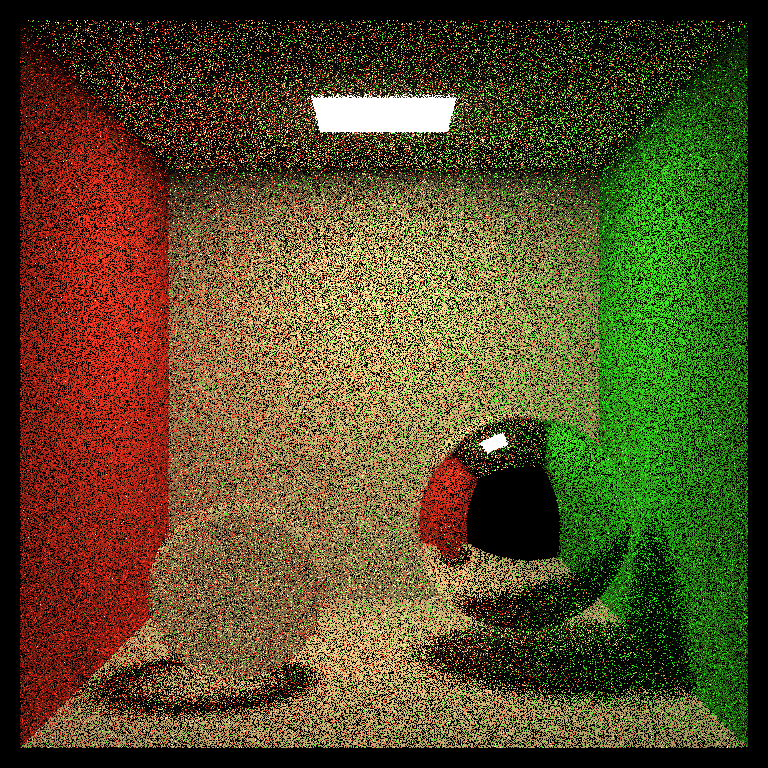
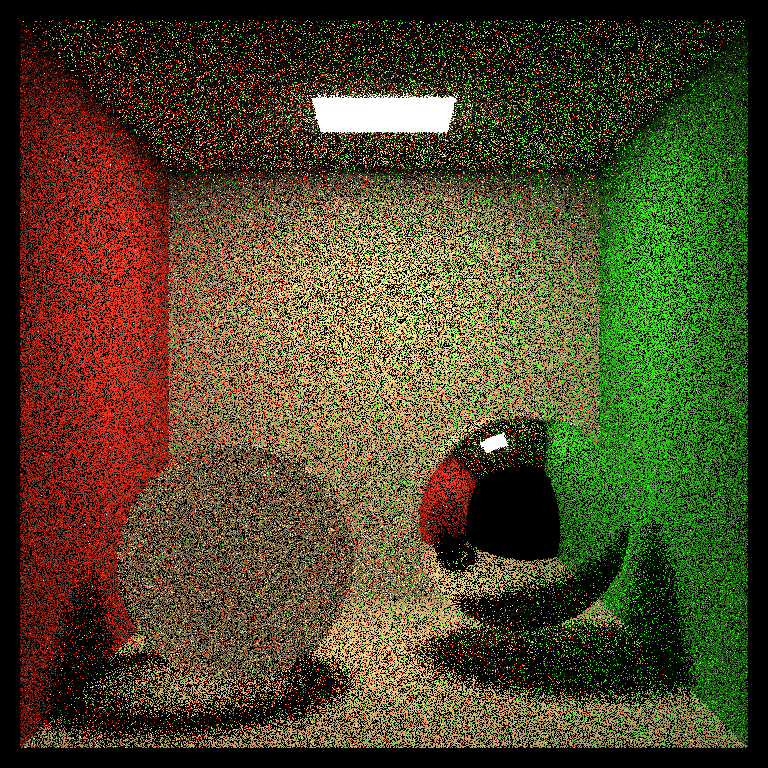
Dielectric partly work with  implementation

diff --git a/src/material/Dielectric.cpp b/src/material/Dielectric.cpp
@@ -45,19 +45,20 @@ bool Dielectric::scatter(
     srec.is_specular = true;
     srec.pdf = 0;
     srec.attenuation = albedo;
-    bool into = dot(r_in.direction(), rec.normal) > 0;
-    float ni_over_nt = into ? ref_idx : 1.0 / ref_idx;
+    bool into = dot(r_in.direction(), rec.normal) < 0;
+    float ni_over_nt = into ? 1.0 / ref_idx : ref_idx;
+    auto outward_normal = into ? rec.normal : -rec.normal;
     
-    auto normalize_direction = normalize(r_in.direction());
-    float cosine = fmin(dot(-normalize_direction, rec.normal), 1.0);
+    float cosine = dot(-r_in.direction(), outward_normal);
     float sine = sqrt(1.0 - cosine*cosine);
 
     bool cannot_refract = ni_over_nt * sine > 1.0;
+
     float reflect_prob = schlick(cosine, ni_over_nt);
     if(cannot_refract || reflect_prob > random_double())
-        srec.specular_ray = Ray(rec.p, reflect(normalize_direction, rec.normal));
+        srec.specular_ray = Ray(rec.p, reflect(r_in.direction(), rec.normal));
     else
-        srec.specular_ray = Ray(rec.p, refract(normalize_direction, rec.normal, ni_over_nt));
+        srec.specular_ray = Ray(rec.p, refract(r_in.direction(), outward_normal, ni_over_nt));
     return true;
 }
 

diff --git a/src/core/vec3.h b/src/core/vec3.h
@@ -204,12 +204,13 @@ inline bool refract(const vec3& v, const vec3& n, double ni_over_nt, vec3& refra
         return false;
 }
 
+// ref: https://knzw.tech/raytracing/?page_id=478
 inline vec3 refract(const vec3& v, const vec3& n, double ni_over_nt) {
     auto nv = normalize(v);
-    auto cosine = fmin(dot(-nv, n), 1.0);
-    vec3 r_out_perp = ni_over_nt * (nv + cosine * n);
-    vec3 r_out_parallel = -sqrt(fabs(1.0 - r_out_perp.length_squared())) * n;
-    return r_out_perp + r_out_parallel;
+    auto cosine = dot(-nv, n);
+    auto nt_over_ni = 1.0 / ni_over_nt;
+    auto cos2t = nt_over_ni*nt_over_ni - (1.0-cosine*cosine);
+    return ni_over_nt*(nv - (sqrt(cos2t)-cosine)*n);
 }
 
 }
